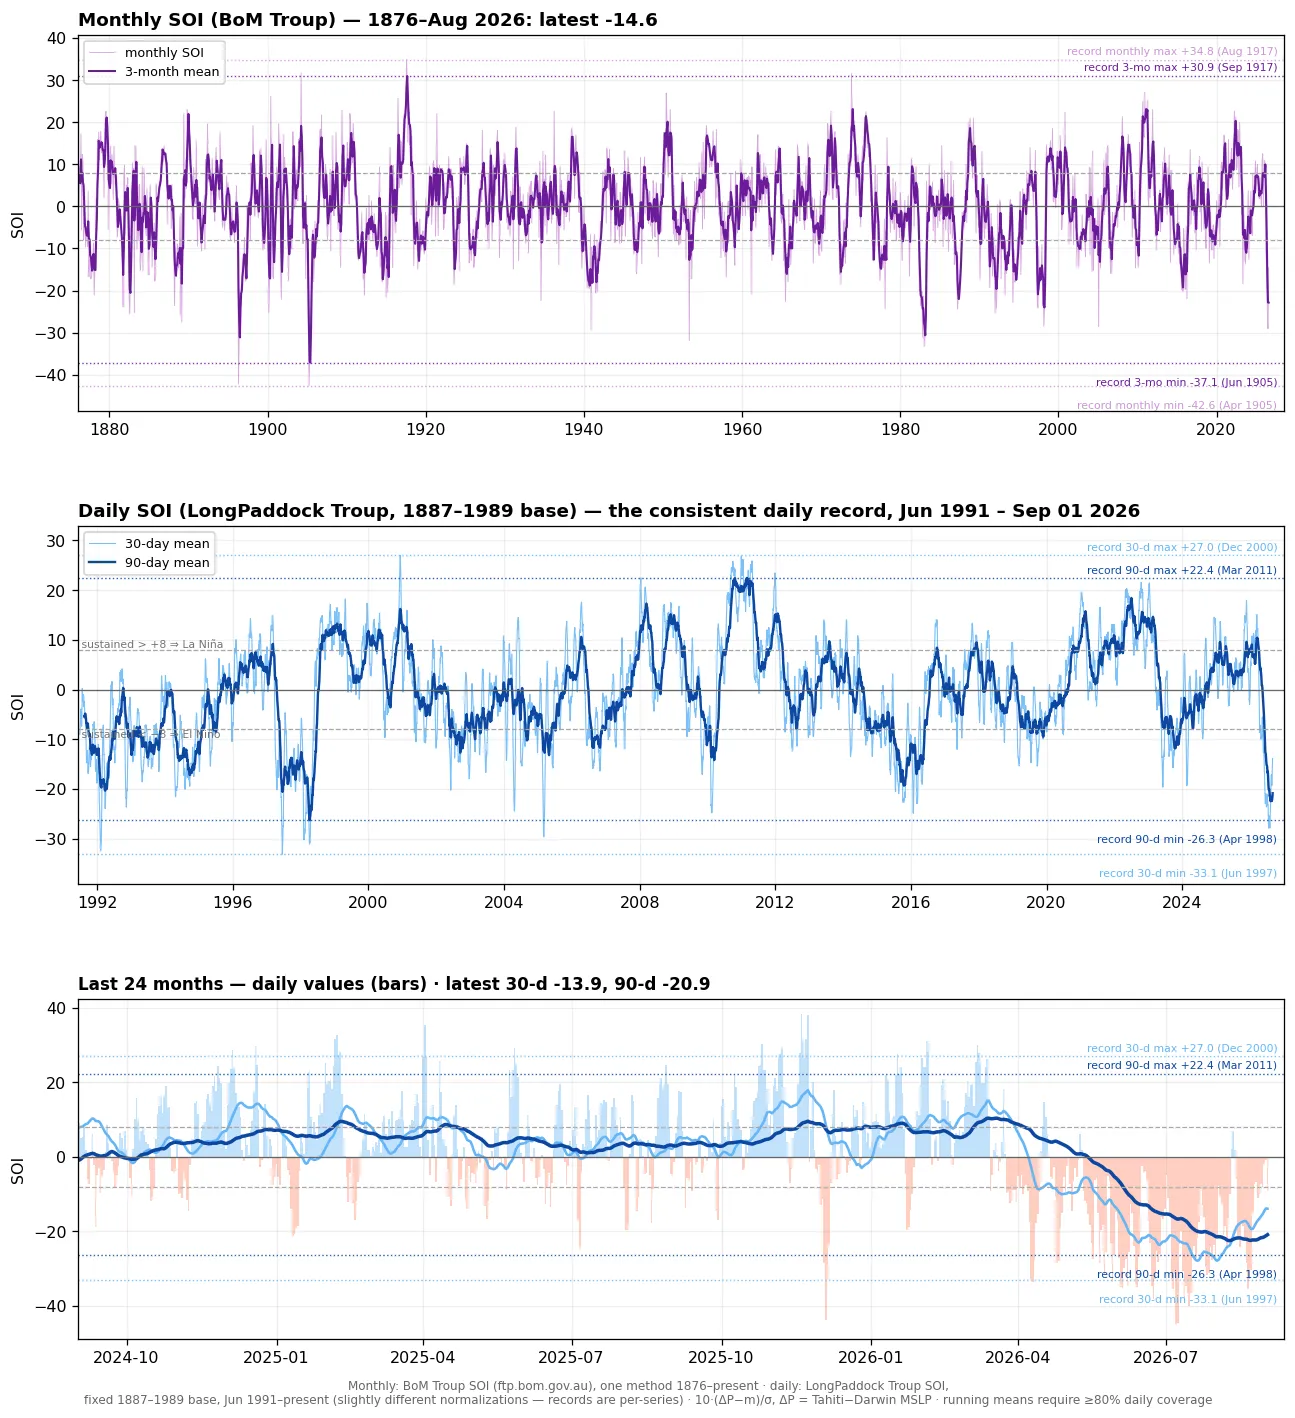
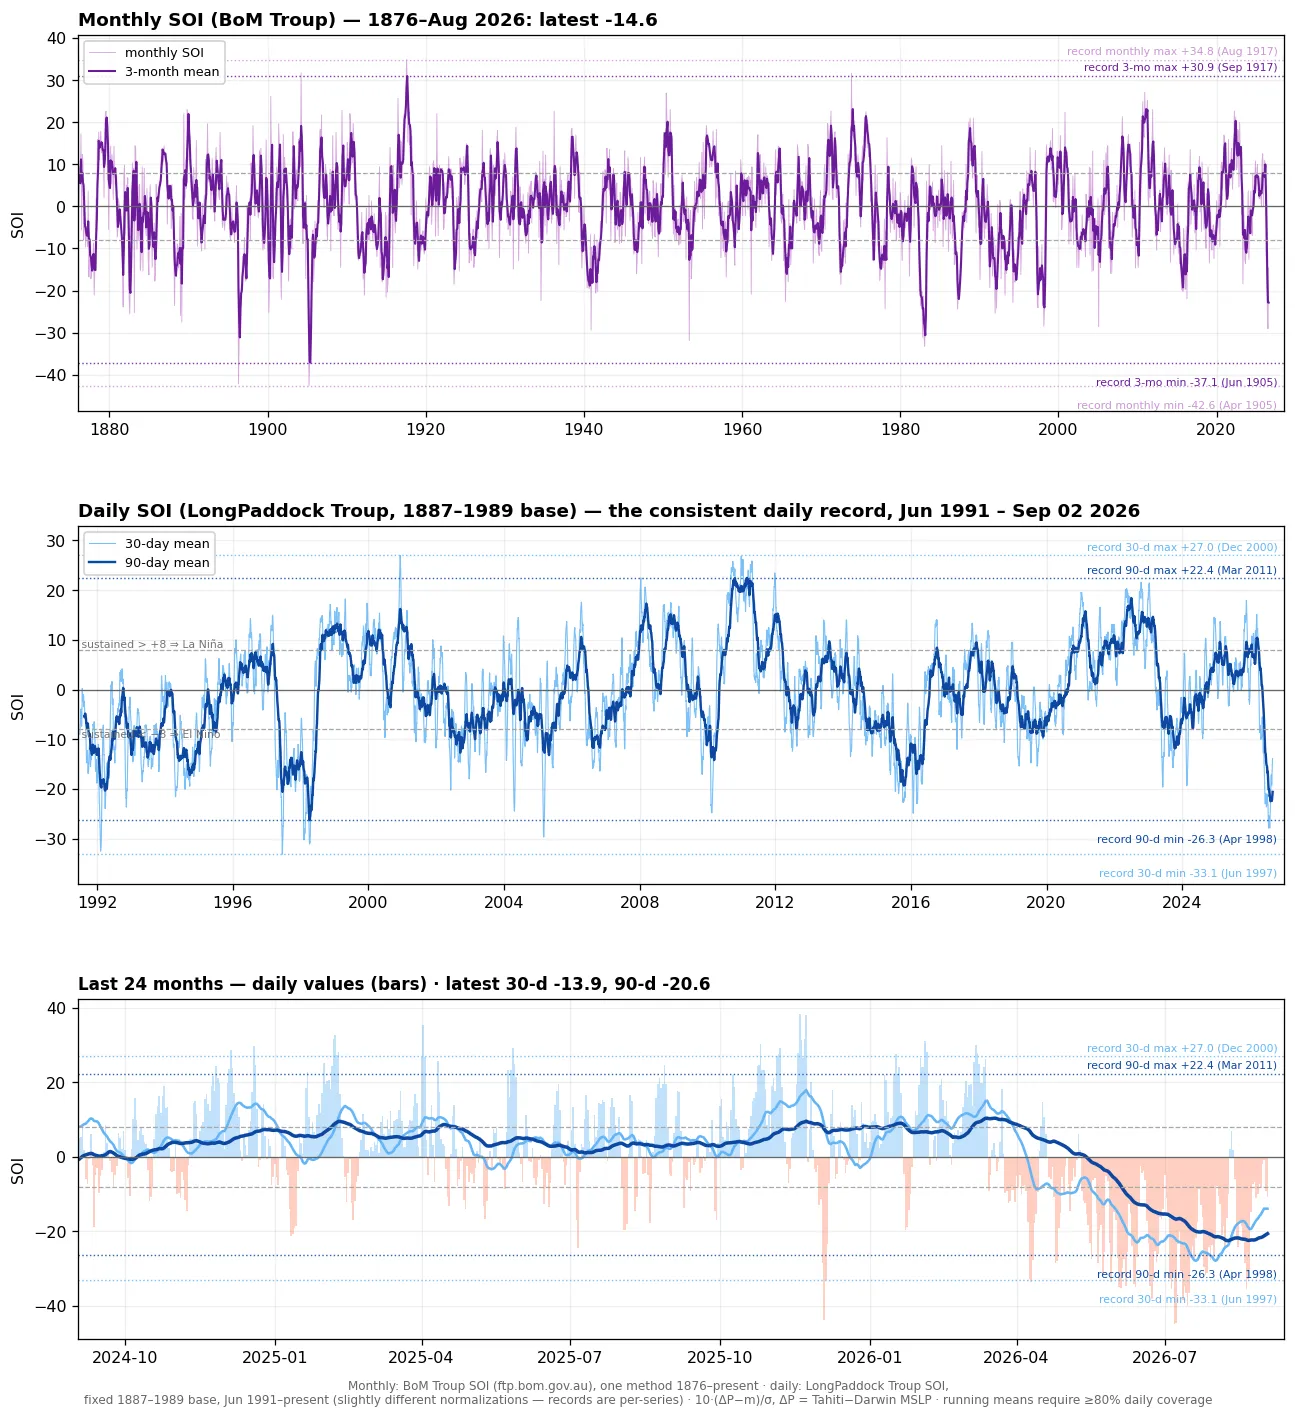
data update: 20260902_00z (a)

diff --git a/enso-atmosphere.html b/enso-atmosphere.html
@@ -676,7 +676,7 @@
         <h2>Atmospheric Angular Momentum</h2>
         <p>Relative AAM is the angular momentum carried by the winds, the atmosphere's total westerly momentum, &int;&nbsp;u&middot;cos&sup2;&phi; over the whole globe. It is dominated by the upper-tropospheric subtropical jets and the deep tropics (largest moment arm), shown here for the globe and each hemisphere from the AIFS-ENS winds on 14 pressure levels (10&ndash;1000&nbsp;hPa &mdash; the full column, validated against the 37-level ERA5 integral and GFZ's ESMGFZ wind-term series to ~1%). The top panel is this year's observed AAM (black) and the 15-day forecast (red) on the climatological annual cycle; the hemispheres are strongly out of phase (each peaks in its own winter). The bottom panel is the anomaly (departure from the 1991&ndash;2020 normal), which removes the seasonal cycle. El&nbsp;Ni&ntilde;o strengthens the subtropical jets and weakens the trades, so the atmosphere holds more westerly momentum; conservation then requires the solid Earth to slow, so AAM ties directly to the measured length of day. The <span style="color:#2e7d32"><b>green trace</b></span> is GFZ's independent ESMGFZ wind-term series (computed from ECMWF's operational analyses for the Earth-rotation community) &mdash; a continuous external check on this pipeline.</p>
       </div>
-      <div class="img-wrap"><img src="assets/sst/aam.webp?v=202609020719" alt="Global and hemispheric atmospheric angular momentum: observed + AIFS-ENS forecast, absolute and anomaly" loading="eager" fetchpriority="high"></div>
+      <div class="img-wrap"><img src="assets/sst/aam.webp?v=202609020905" alt="Global and hemispheric atmospheric angular momentum: observed + AIFS-ENS forecast, absolute and anomaly" loading="eager" fetchpriority="high"></div>
       <div class="chart-card-footer"><span class="chart-sources">Forecast: ECMWF AIFS-ENS (open data, CC BY 4.0) &middot; climatology &amp; this-year observed: ERA5 (Copernicus C3S / ECMWF) &middot; updated daily</span></div>
       </div>
 
@@ -684,7 +684,7 @@
       <div class="chart-card-header">
         <h2>AAM Forecast Trend (run-to-run)</h2>
       </div>
-      <div class="img-wrap"><img src="assets/sst/aam_trend.webp?v=202609020719" alt="Run-to-run trend of AIFS-ENS ensemble-mean AAM anomaly forecasts, global and hemispheric" loading="lazy"></div>
+      <div class="img-wrap"><img src="assets/sst/aam_trend.webp?v=202609020905" alt="Run-to-run trend of AIFS-ENS ensemble-mean AAM anomaly forecasts, global and hemispheric" loading="lazy"></div>
       <div class="chart-card-footer"><span class="chart-sources">ECMWF AIFS-ENS (open data, CC BY 4.0) &middot; anomaly vs ERA5 1991&ndash;2020 (Copernicus C3S) &middot; archived each cycle</span></div>
       </div>
 
@@ -693,7 +693,7 @@
         <h2>AAM Phase: Where the Momentum Is, and Where It&rsquo;s Going</h2>
         <p><b>Top</b>: relative AAM integrated in 1.5&deg; latitude bands &mdash; ~3 months observed (ERA5) plus the 15-day AIFS-ENS mean forecast &mdash; so poleward-propagating westerly anomalies and building subtropical momentum show as slanted warm streaks. <b>Bottom</b>: each hemisphere's trajectory through (AAM anomaly, tendency) phase space, the hemispheric analog of the Weickmann&ndash;Berry global wind oscillation orbit: grey trail = last 75 days, red = the forecast. The headline sentence is generated automatically from the forecast quadrant and the latitude band driving the change &mdash; e.g. <i>"NH: rising above-normal AAM &mdash; subtropical westerlies increasing."</i></p>
       </div>
-      <div class="img-wrap"><img src="assets/sst/aam_phase.webp?v=202609020719" alt="Hemispheric AAM phase diagnostics: latitude-time anomaly heatmap and NH/SH phase-space orbits with forecast" loading="lazy"></div>
+      <div class="img-wrap"><img src="assets/sst/aam_phase.webp?v=202609020905" alt="Hemispheric AAM phase diagnostics: latitude-time anomaly heatmap and NH/SH phase-space orbits with forecast" loading="lazy"></div>
       <div class="chart-card-footer"><span class="chart-sources">ERA5 (local store) &middot; AIFS-ENS ensemble mean (open data, CC BY 4.0) &middot; clim: ERA5 1991&ndash;2020 &middot; updated daily</span></div>
       </div>
 
@@ -709,8 +709,8 @@
       </div>
       <iframe data-deferred class="anim-embed torque" data-src="sst_anim.html?embed=1&amp;manifest=torque_manifest.json&amp;region=torque"
               title="AAM surface-torque anomaly animation (friction + mountain) over the AIFS-ENS forecast" loading="lazy"></iframe>
-      <div class="img-wrap"><img src="assets/sst/torque_timeseries.webp?v=202609020719" alt="AAM torque anomalies for globe, Northern and Southern Hemisphere" loading="lazy"></div>
-      <div class="img-wrap"><img src="assets/sst/torque_ranges.webp?v=202609020719" alt="Mountain-torque anomaly broken down by range (Himalaya, Rockies, Andes, Greenland, Antarctica, Alps)" loading="lazy"></div>
+      <div class="img-wrap"><img src="assets/sst/torque_timeseries.webp?v=202609020905" alt="AAM torque anomalies for globe, Northern and Southern Hemisphere" loading="lazy"></div>
+      <div class="img-wrap"><img src="assets/sst/torque_ranges.webp?v=202609020905" alt="Mountain-torque anomaly broken down by range (Himalaya, Rockies, Andes, Greenland, Antarctica, Alps)" loading="lazy"></div>
       <div class="chart-card-footer"><span class="chart-sources">ECMWF AIFS-ENS surface pressure &amp; 10 m wind (open data, CC BY 4.0) &middot; drag coefficient and torque climatology from ERA5 1991&ndash;2020 (Copernicus C3S) &middot; instantaneous once-daily fields &middot; updated daily</span></div>
 
     <!-- E-P FLUX & WAVE DRIVING -->
@@ -771,7 +771,7 @@
       </div>
       <iframe data-deferred class="anim-embed jets" data-src="sst_anim.html?embed=1&amp;manifest=jets_manifest.json&amp;region=jets"
               title="Subtropical jet forecast animation: zonal-mean wind anomaly cross-section, day 0-15 from AIFS-ENS" loading="lazy"></iframe>
-      <div class="img-wrap"><img src="assets/sst/jets.webp?v=202609020719" alt="Subtropical jet monitor: zonal-mean wind cross-section anomaly and jet-core strength/latitude forecast vs ERA5 climatology" loading="lazy"></div>
+      <div class="img-wrap"><img src="assets/sst/jets.webp?v=202609020905" alt="Subtropical jet monitor: zonal-mean wind cross-section anomaly and jet-core strength/latitude forecast vs ERA5 climatology" loading="lazy"></div>
       <div class="chart-card-footer"><span class="chart-sources">ECMWF AIFS-ENS 13-level zonal wind, 51 members (open data, CC BY 4.0) &middot; clim: ERA5 1991&ndash;2020 harmonic day-of-year normal &plusmn;1&sigma; (WeatherBench2 / Copernicus C3S) &middot; updated daily</span></div>
       </div>
       

diff --git a/sst.html b/sst.html
@@ -655,7 +655,7 @@
       <h2>Daily SOI: the Current Event vs the Record</h2>
       <p><b>150 years of the Southern Oscillation, with today marked against the records.</b> <b>Top</b>: the Bureau of Meteorology's monthly Troup SOI computed one way from <b>1876 to the present</b> &mdash; monthly (light) and 3-month mean (bold), with dotted record lines: the all-time monthly extremes were set in Apr&nbsp;1905 (&minus;42.6) and Aug&nbsp;1917 (+34.8). <b>Middle</b>: the consistent <b>daily</b> record &mdash; LongPaddock's daily Troup index (10&middot;(&Delta;P&nbsp;&minus;&nbsp;m)/&sigma;, &Delta;P = Tahiti&nbsp;&minus;&nbsp;Darwin MSLP, fixed 1887&ndash;1989 base), June&nbsp;1991&ndash;present, as 30-day and 90-day running means with their own record max/min lines (1997&ndash;98 holds the 30-day minimum; 2010&ndash;11 the positive records). <b>Bottom</b>: the last 24 months with raw daily values as bars. Sustained values below &minus;8 are the classic Troup El&nbsp;Ni&ntilde;o threshold; the record lines show at a glance how the current excursion ranks in a century and a half of data.</p>
     </div>
-    <div class="img-wrap"><img src="assets/sst/soi_history.webp?v=202609020719" alt="Daily SOI history: 30-day and 90-day running means with all-time record max/min lines" loading="lazy"></div>
+    <div class="img-wrap"><img src="assets/sst/soi_history.webp?v=202609020905" alt="Daily SOI history: 30-day and 90-day running means with all-time record max/min lines" loading="lazy"></div>
     <div class="chart-card-footer">
       <span class="chart-sources">Queensland Govt LongPaddock / BoM daily Troup SOI &middot; fixed 1887&ndash;1989 base &middot; updated each cycle</span>
     </div>
@@ -667,7 +667,7 @@
       <p>NOAA PSL's Multivariate ENSO Index v2 is the leading combined-EOF of five tropical-Pacific fields (sea-level pressure, SST, surface zonal and meridional wind, and OLR), but it is published only as an overlapping bimonthly value with a roughly five-week lag. This is a daily nowcast of it: a regression of the published MEI.v2 onto freely-available daily ENSO components (the Ni&ntilde;o-3.4 SST anomaly, the Southern Oscillation Index, and the equatorial 850-hPa zonal wind), driven forward each day. The grey steps are the official bimonthly MEI.v2; the red line is the daily estimate, with a &plusmn;0.30 leave-one-year-out cross-validation band (the fit reproduces MEI.v2 at R&nbsp;=&nbsp;0.94). The model is SST-weighted, so during a fast SST-led transition it can lead MEI's slower atmospheric components.</p>
     </div>
     <div class="img-wrap">
-      <img src="assets/sst/mei/mei_nowcast.webp?v=202609020719"
+      <img src="assets/sst/mei/mei_nowcast.webp?v=202609020905"
            alt="Daily nowcast of the Multivariate ENSO Index version 2" loading="lazy">
     </div>
     <div class="img-wrap">
@@ -682,7 +682,7 @@
     </div>
     <div class="img-wrap">
       <p class="img-label">Out-of-sample skill: the 2015&ndash;16 El Ni&ntilde;o</p>
-      <img src="assets/sst/mei/mei_validation.webp?v=202609020719"
+      <img src="assets/sst/mei/mei_validation.webp?v=202609020905"
            alt="Validation of the MEI.v2 nowcast over the 2015-16 El Niño" loading="lazy">
     </div>
     <div class="chart-card-footer">
